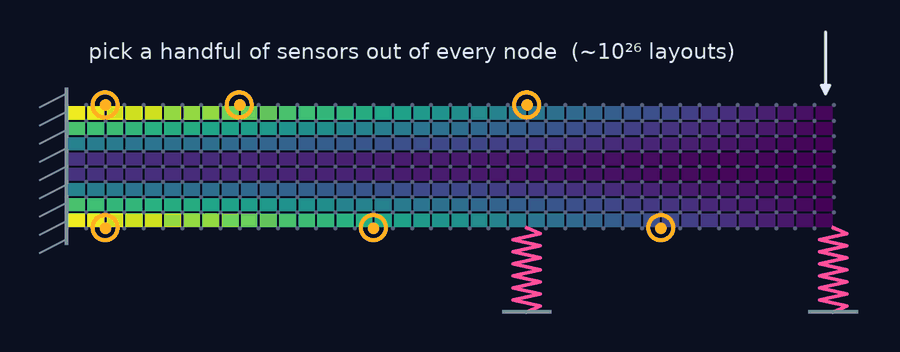
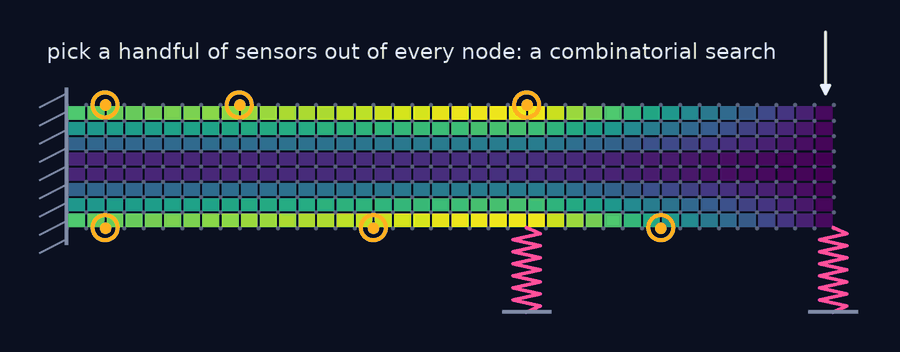
fix: make research illustrations mathematically consistent
- GOALS: each mini-batch draws its own curvature, centre and offset, so loss jumps and slope noise come from the same model
- beam: bending moment solved with Euler-Bernoulli FE including both springs (matches statics to 4e-8)
- drop the 10^26 label from the drawn mesh (it is the thesis case, not this mesh)
- tools/make_figures.py regenerates the figures and prints the checks

diff --git a/tools/make_figures.py b/tools/make_figures.py
@@ -1,0 +1,108 @@
+import numpy as np, matplotlib
+matplotlib.use('Agg')
+import matplotlib.pyplot as plt
+from matplotlib.patches import Polygon
+BG='#0b1020'; GRID='#1c2540'; INK='#d7def0'; CY='#38e1ff'; AM='#ffb020'; PK='#ff4f9a'; GR='#5cf28a'
+plt.rcParams.update({'font.family':'DejaVu Sans','font.size':11,'text.color':INK,'axes.labelcolor':INK,'xtick.color':'#7f8bb0','ytick.color':'#7f8bb0','axes.edgecolor':GRID})
+rng=np.random.default_rng(3)
+
+# ---------- 1. GOALS: discontinuous mini-batch losses vs derivative sign change ----------
+fig,(a1,a2)=plt.subplots(2,1,figsize=(8,5),dpi=100,sharex=True,gridspec_kw=dict(height_ratios=[1.25,1],hspace=.08))
+fig.patch.set_facecolor(BG)
+for ax in (a1,a2):
+    ax.set_facecolor(BG); ax.grid(color=GRID,lw=.8); [s.set_visible(False) for s in ax.spines.values()]
+al=np.linspace(0,4,800); astar=1.55; A0=0.035
+full=0.11+A0*(al-astar)**2
+seg=np.array_split(np.arange(al.size),26)
+def batch(): return A0*(1+rng.normal(0,.12)), astar+rng.normal(0,.12), rng.normal(0,.012)
+f=np.empty_like(al); dn=np.empty_like(al)
+for sgi in seg:
+    ab,cb,ob=batch(); f[sgi]=0.11+ob+ab*(al[sgi]-cb)**2; dn[sgi]=2*ab*(al[sgi]-cb)
+a1.plot(al,full,color='#3a4a7a',lw=6,alpha=.6,solid_capstyle='round')
+a1.plot(al,f,color=PK,lw=1.6)
+a1.set_ylabel('loss  f(α)')
+a1.text(.05,.97,'mini-batch losses jump,\nso function values mislead',transform=a1.transAxes,ha='left',va='top',fontsize=11,color=PK)
+pts=np.linspace(.2,3.8,11); di=np.array([2*ab*(p-cb) for p,(ab,cb,_) in zip(pts,[batch() for _ in pts])])
+GOALS_CHECK=dict(astar=astar,pts=pts,di=di)
+a2.axhline(0,color='#7f8bb0',lw=1)
+a2.plot(al,dn,color=PK,lw=1,alpha=.35)
+A=np.polyfit(pts,di,1); a2.plot(al,np.polyval(A,al),color=CY,lw=2.4)
+a2.scatter(pts,di,s=36,color=np.where(di>0,AM,CY),edgecolor=BG,zorder=3)
+r=-A[1]/A[0]; a2.scatter([r],[0],s=150,marker='X',color=GR,edgecolor=BG,zorder=4)
+a1.axvline(r,color=GR,lw=1.2,ls=(0,(4,3))); a2.axvline(r,color=GR,lw=1.2,ls=(0,(4,3)))
+a2.text(.97,.08,'derivative sign change → step size α*',transform=a2.transAxes,ha='right',color=GR,fontsize=11)
+a2.set_ylabel("slope  f′(α)"); a2.set_xlabel('learning rate α along the search direction')
+for ax in (a1,a2): ax.set_yticklabels([])
+fig.savefig('v_goals.png',facecolor=BG,bbox_inches='tight',pad_inches=.25,dpi=200); plt.close(fig)
+
+# ---------- 2. Sub-dimensional surrogate on Ackley (map + 1-D slice) ----------
+def ackley(x,y): return -20*np.exp(-.2*np.sqrt(.5*(x**2+y**2)))-np.exp(.5*(np.cos(2*np.pi*x)+np.cos(2*np.pi*y)))+np.e+20
+n=500; x=np.linspace(-4,4,n); X,Y=np.meshgrid(x,x); Z=ackley(X,Y)
+fig,(m,sl)=plt.subplots(1,2,figsize=(8,3.9),dpi=100,gridspec_kw=dict(width_ratios=[1,1.25],wspace=.12)); fig.patch.set_facecolor(BG)
+m.imshow(Z,extent=(-4,4,-4,4),origin='lower',cmap='magma'); m.set_axis_off()
+p0=np.array([3.1,-2.4]); dvec=-p0/np.linalg.norm(p0); t=np.linspace(0,7.6,400)
+L=p0[None,:]+t[:,None]*dvec; zl=ackley(L[:,0],L[:,1])
+ts=np.linspace(.3,7.2,8); Ls=p0[None,:]+ts[:,None]*dvec; zs=ackley(Ls[:,0],Ls[:,1])
+c=np.polyfit(ts,zs,2); tm=-c[1]/(2*c[0]); pm=p0+tm*dvec
+m.plot(L[:,0],L[:,1],color=CY,lw=2.2); m.scatter(Ls[:,0],Ls[:,1],s=34,color=AM,edgecolor=BG,zorder=3)
+m.scatter([pm[0]],[pm[1]],s=140,marker='X',color=GR,edgecolor=BG,zorder=4)
+m.text(-3.6,3.6,'Ackley: rugged,\nmany local minima',color='#ffffff',fontsize=10.5,va='top',bbox=dict(facecolor=BG,alpha=.55,edgecolor='none',pad=3))
+sl.set_facecolor(BG); sl.grid(color=GRID,lw=.8); [q.set_visible(False) for q in sl.spines.values()]
+sl.plot(t,zl,color=PK,lw=1.3,alpha=.9,label='true function along the subspace')
+sl.plot(t,np.polyval(c,t),color=CY,lw=2.6,label='1-D quadratic surrogate')
+sl.scatter(ts,zs,s=40,color=AM,edgecolor=BG,zorder=3,label='samples (the budget)')
+sl.scatter([tm],[np.polyval(c,tm)],s=150,marker='X',color=GR,edgecolor=BG,zorder=4)
+sl.set_xlabel('position along the chosen subspace'); sl.set_yticklabels([]); sl.set_xticklabels([])
+sl.legend(loc='upper center',frameon=False,fontsize=9.5,labelcolor=INK,ncol=1)
+sl.set_ylim(min(zl.min(),np.polyval(c,t).min())-.5,zl.max()+3.2)
+fig.savefig('v_subdim.png',facecolor=BG,bbox_inches='tight',pad_inches=.2,dpi=200); plt.close(fig)
+
+# ---------- 3. Sensor placement on a cantilever FEM mesh ----------
+fig,ax=plt.subplots(figsize=(8,3.6),dpi=100); fig.patch.set_facecolor(BG); ax.set_facecolor(BG)
+Lb,H,nx,ny=10,1.6,40,8
+xs=np.linspace(0,Lb,nx+1); ys=np.linspace(-H/2,H/2,ny+1)
+XX,YY=np.meshgrid((xs[:-1]+xs[1:])/2,(ys[:-1]+ys[1:])/2)
+# Euler-Bernoulli beam: clamped at x=0, tip load P down at x=L, springs k1 at 0.6L and k2 at L
+def beam_moment(Lb,ne=200,EI=1.0,P=1.0,k1=0.02,k2=0.01):
+    le=Lb/ne; nd=ne+1; K=np.zeros((2*nd,2*nd)); F=np.zeros(2*nd)
+    ke=EI/le**3*np.array([[12,6*le,-12,6*le],[6*le,4*le**2,-6*le,2*le**2],[-12,-6*le,12,-6*le],[6*le,2*le**2,-6*le,4*le**2]])
+    for e in range(ne):
+        idx=[2*e,2*e+1,2*e+2,2*e+3]; K[np.ix_(idx,idx)]+=ke
+    xn=np.linspace(0,Lb,nd); i1=int(round(.6*ne)); K[2*i1,2*i1]+=k1; K[2*ne,2*ne]+=k2
+    F[2*ne]=-P
+    free=np.arange(2,2*nd); u=np.zeros(2*nd); u[free]=np.linalg.solve(K[np.ix_(free,free)],F[free])
+    # moment at element midpoints from Hermite second derivative
+    xm=(xn[:-1]+xn[1:])/2; M=np.empty(ne)
+    for e in range(ne):
+        w1,t1,w2,t2=u[2*e:2*e+4]; M[e]=EI*(0*w1/le**2 + (-1/le)*t1 + 0*w2 + (1/le)*t2)  # w'' at midpoint = (t2-t1)/le
+    R1=k1*(-u[2*i1]); R2=k2*(-u[2*ne])
+    return xm,M,(xn[i1],R1),(Lb,R2),u
+xm,M,(x1,R1),(x2,R2),u=beam_moment(Lb)
+# statics check: M(x) = -P(L-x) + R1*max(x1-x,0) + R2*(L-x)  (sagging +)
+Mst=-(Lb-xm)*1.0 + R1*np.clip(x1-xm,0,None) + R2*(Lb-xm)
+BEAM_CHECK=dict(err=float(np.max(np.abs(M-Mst))),R1=R1,R2=R2)
+Mc=np.interp(XX[0],xm,M)
+S=np.abs(Mc[None,:]*YY)
+ax.pcolormesh(xs,ys,S,cmap='viridis',shading='flat',edgecolors='#0b1020',linewidth=.4)
+NX,NY=np.meshgrid(xs,ys); ax.scatter(NX,NY,s=5,color='#9aa6c8',alpha=.55,lw=0)
+sel=[(2,8),(2,0),(9,8),(16,0),(24,8),(31,0)]
+for i,j in sel: ax.scatter(xs[i],ys[j],s=170,facecolor='none',edgecolor=AM,lw=2.2,zorder=4); ax.scatter(xs[i],ys[j],s=26,color=AM,zorder=5)
+for yy in np.linspace(-H/2-.15,H/2+.15,9): ax.plot([-.35,0],[yy-.18,yy],color='#7f8bb0',lw=1)
+ax.plot([0,0],[-H/2-.2,H/2+.2],color='#7f8bb0',lw=2)
+def spring(x0,y0,y1,w=.18,k=7):
+    yy=np.linspace(y0,y1,2*k+1); xx=x0+np.r_[0,np.tile([w,-w],k)[:2*k-1],0]; ax.plot(xx,yy,color=PK,lw=1.8)
+spring(Lb,-H/2,-H/2-1.1); spring(Lb*.6,-H/2,-H/2-1.1)
+for xb in (Lb,Lb*.6): ax.plot([xb-.3,xb+.3],[-H/2-1.1]*2,color='#7f8bb0',lw=2)
+ax.annotate('',xy=(Lb-.1,H/2+.05),xytext=(Lb-.1,H/2+1.0),arrowprops=dict(arrowstyle='-|>',color=INK,lw=1.6))
+ax.text(Lb*.45,H/2+.6,'pick a handful of sensors out of every node: a combinatorial search',ha='center',color=INK,fontsize=11)
+ax.set_xlim(-.6,Lb+.6); ax.set_ylim(-H/2-1.35,H/2+1.1); ax.set_aspect('equal'); ax.axis('off')
+fig.savefig('v_sensors.png',facecolor=BG,bbox_inches='tight',pad_inches=.15,dpi=200); plt.close(fig)
+
+# ---------- checks ----------
+import math
+g=GOALS_CHECK; A=np.polyfit(g['pts'],g['di'],1); r=-A[1]/A[0]
+print('GOALS root',round(r,3),'true min',g['astar'],'| slope fit',A.round(4),'expected slope 2*A0=',2*0.035)
+print('Ackley(0,0)=',round(float(ackley(0,0)),12),' min on grid',round(float(Z.min()),4))
+print('subdim quad c0>0',c[0]>0,' surrogate argmin t',round(tm,3),' line passes origin at t',round(float(np.linalg.norm(p0)),3))
+print('beam FE vs statics max |dM|',f"{BEAM_CHECK['err']:.2e}",' R1',round(BEAM_CHECK['R1'],4),' R2',round(BEAM_CHECK['R2'],4))
+nn=(nx+1)*(ny+1); print('drawn mesh nodes',nn,' C(nodes,6)=',f"{math.comb(nn,6):.2e}",' thesis C(1010,11)=',f"{math.comb(1010,11):.2e}")
